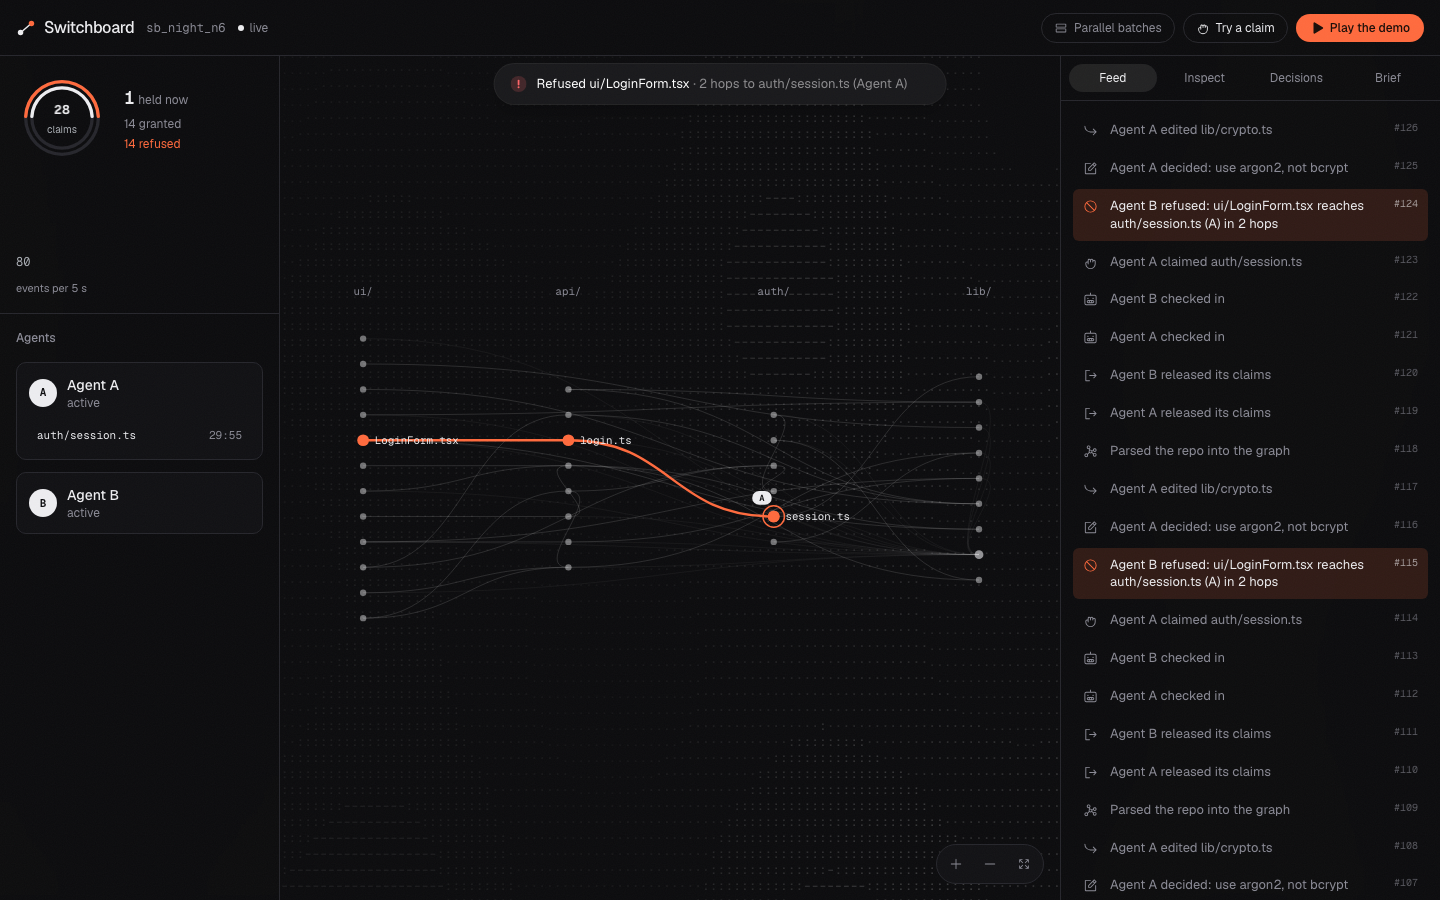
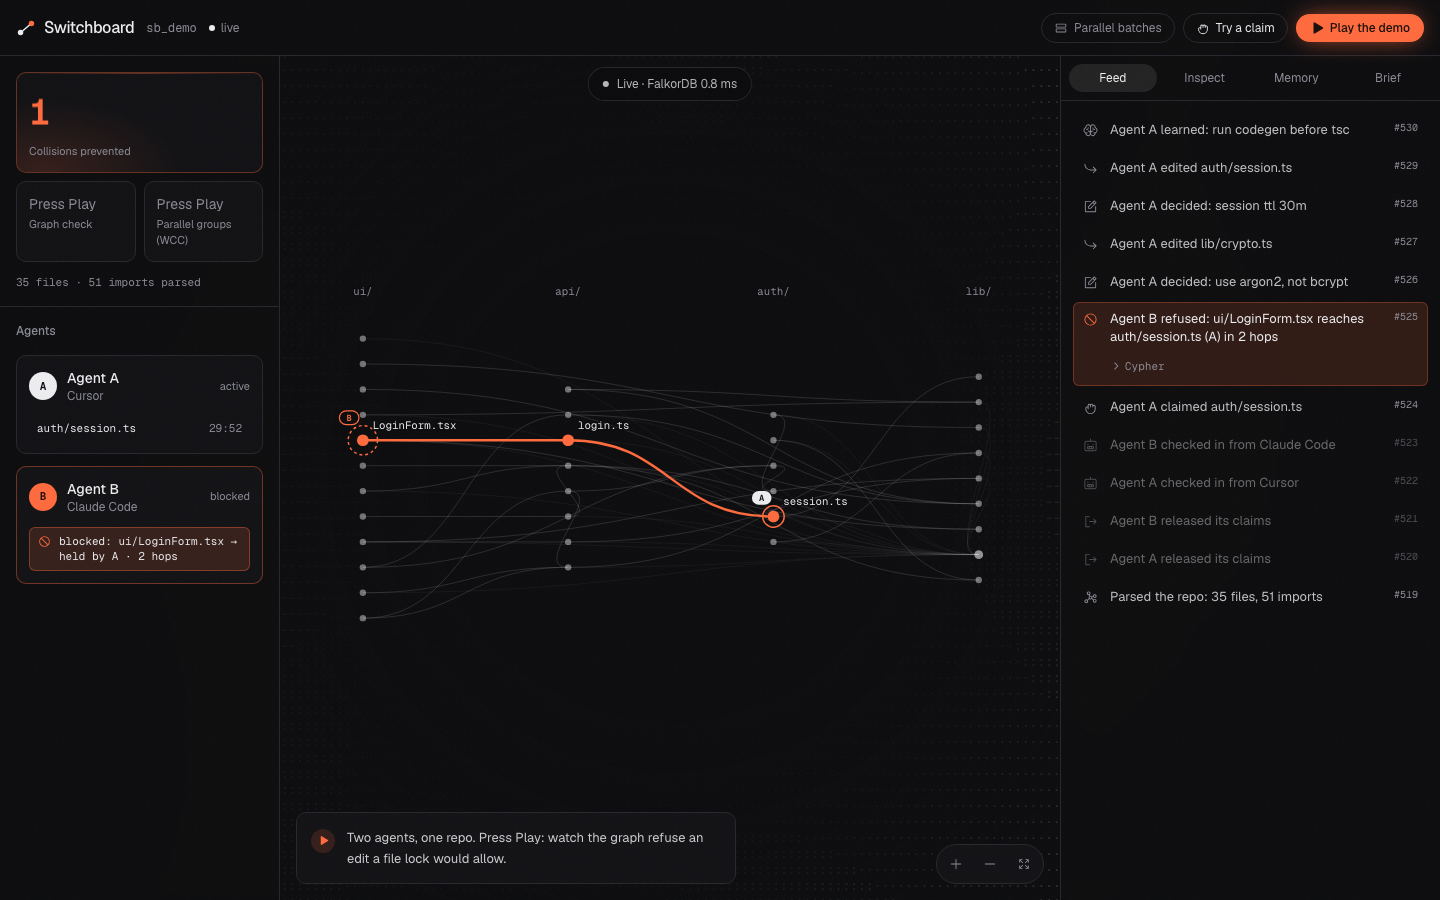
Regenerate after the night merges: bench on a quiet machine (median 0.69 ms), replay, pair census, README, OG and app captures, hero GIF

diff --git a/README.md b/README.md
@@ -181,19 +181,19 @@ UNWIND $paths AS want
 MATCH (f:File {path: want})<-[c:CLAIMS]-(o:Agent)
 WHERE o.id <> $agent AND c.until > $now
 RETURN want AS file, 'SAME' AS type, f.path AS claimed, [f.path] AS path, 0 AS hops,
-       o.id AS agent, c.taskId AS taskId, c.intent AS intent
+       o.id AS agent, c.taskId AS taskId, c.intent AS intent, c.until AS until, coalesce(f.hub, false) AS hub
 UNION ALL
 UNWIND $paths AS want
 MATCH p = (f:File {path: want})-[:IMPORTS*1..3]->(g:File), (g)<-[c:CLAIMS]-(o:Agent)
-WHERE o.id <> $agent AND c.until > $now AND none(n IN nodes(p) WHERE coalesce(n.hub, false))
+WHERE o.id <> $agent AND c.until > $now AND none(n IN nodes(p)[1..-1] WHERE coalesce(n.hub, false))
 RETURN want AS file, 'UPSTREAM' AS type, g.path AS claimed, [n IN nodes(p) | n.path] AS path, length(p) AS hops,
-       o.id AS agent, c.taskId AS taskId, c.intent AS intent
+       o.id AS agent, c.taskId AS taskId, c.intent AS intent, c.until AS until, coalesce(f.hub, false) OR coalesce(g.hub, false) AS hub
 UNION ALL
 UNWIND $paths AS want
 MATCH p = (g:File)-[:IMPORTS*1..3]->(f:File {path: want}), (g)<-[c:CLAIMS]-(o:Agent)
-WHERE o.id <> $agent AND c.until > $now AND none(n IN nodes(p) WHERE coalesce(n.hub, false))
+WHERE o.id <> $agent AND c.until > $now AND none(n IN nodes(p)[1..-1] WHERE coalesce(n.hub, false))
 RETURN want AS file, 'DOWNSTREAM' AS type, g.path AS claimed, [n IN nodes(p) | n.path] AS path, length(p) AS hops,
-       o.id AS agent, c.taskId AS taskId, c.intent AS intent
+       o.id AS agent, c.taskId AS taskId, c.intent AS intent, c.until AS until, coalesce(f.hub, false) OR coalesce(g.hub, false) AS hub
 ```
 
 ### Conflict guard
@@ -208,10 +208,10 @@ OPTIONAL MATCH (f:File {path: want})<-[c:CLAIMS]-(o:Agent)
 WHERE o.id <> $agent AND c.until > $now
 WITH want, count(c) AS same
 OPTIONAL MATCH p = (f:File {path: want})-[:IMPORTS*1..3]->(g:File), (g)<-[c:CLAIMS]-(o:Agent)
-WHERE o.id <> $agent AND c.until > $now AND none(n IN nodes(p) WHERE coalesce(n.hub, false))
+WHERE o.id <> $agent AND c.until > $now AND none(n IN nodes(p)[1..-1] WHERE coalesce(n.hub, false))
 WITH want, same, count(c) AS up
 OPTIONAL MATCH p = (g:File)-[:IMPORTS*1..3]->(f:File {path: want}), (g)<-[c:CLAIMS]-(o:Agent)
-WHERE o.id <> $agent AND c.until > $now AND none(n IN nodes(p) WHERE coalesce(n.hub, false))
+WHERE o.id <> $agent AND c.until > $now AND none(n IN nodes(p)[1..-1] WHERE coalesce(n.hub, false))
 WITH want, same, up, count(c) AS down
 WITH sum(same + up + down) AS blocked
 WITH blocked WHERE blocked = 0
@@ -229,10 +229,10 @@ OPTIONAL MATCH (f:File {path: want})<-[c:CLAIMS]-(o:Agent)
 WHERE o.id <> $agent AND c.until > $now
 WITH want, count(c) AS same
 OPTIONAL MATCH p = (f:File {path: want})-[:IMPORTS*1..3]->(g:File), (g)<-[c:CLAIMS]-(o:Agent)
-WHERE o.id <> $agent AND c.until > $now AND none(n IN nodes(p) WHERE coalesce(n.hub, false))
+WHERE o.id <> $agent AND c.until > $now AND none(n IN nodes(p)[1..-1] WHERE coalesce(n.hub, false))
 WITH want, same, count(c) AS up
 OPTIONAL MATCH p = (g:File)-[:IMPORTS*1..3]->(f:File {path: want}), (g)<-[c:CLAIMS]-(o:Agent)
-WHERE o.id <> $agent AND c.until > $now AND none(n IN nodes(p) WHERE coalesce(n.hub, false))
+WHERE o.id <> $agent AND c.until > $now AND none(n IN nodes(p)[1..-1] WHERE coalesce(n.hub, false))
 WITH want, same, up, count(c) AS down
 WITH sum(same + up + down) AS blocked
 WITH blocked WHERE blocked = 0
@@ -273,7 +273,7 @@ Why a lock table cannot do this: it has no idea who depends on a file.
 
 ```cypher
 MATCH p = (d:File)-[:IMPORTS*1..3]->(f:File {path: $path})
-WHERE d <> f AND none(n IN nodes(p) WHERE coalesce(n.hub, false) AND n <> f)
+WHERE d <> f AND none(n IN nodes(p)[1..-1] WHERE coalesce(n.hub, false))
 WITH d, min(length(p)) AS hops, $now AS now
 RETURN d.path AS path, hops, [(a:Agent)-[c:CLAIMS]->(d) WHERE c.until > now | a.id] AS agents
 ORDER BY hops, path
@@ -293,9 +293,9 @@ UNWIND a.paths AS p1
 UNWIND b.paths AS p2
 MATCH (f1:File {path: p1}), (f2:File {path: p2})
 OPTIONAL MATCH up = (f1)-[:IMPORTS*1..3]->(f2)
-WHERE none(n IN nodes(up) WHERE coalesce(n.hub, false))
+WHERE none(n IN nodes(up)[1..-1] WHERE coalesce(n.hub, false))
 OPTIONAL MATCH down = (f2)-[:IMPORTS*1..3]->(f1)
-WHERE none(n IN nodes(down) WHERE coalesce(n.hub, false))
+WHERE none(n IN nodes(down)[1..-1] WHERE coalesce(n.hub, false))
 WITH a, b, f1, f2, min(length(up)) AS u, min(length(down)) AS d
 WITH a, b, f1.path AS via,
      CASE WHEN f1 = f2 THEN 0 WHEN u IS NULL THEN d WHEN d IS NULL THEN u WHEN u < d THEN u ELSE d END AS hops
@@ -350,10 +350,23 @@ OPTIONAL MATCH (e)-[:UNDER]->(t:Task)
 OPTIONAL MATCH (t)-[:CAUSED_BY]->(d:Decision)
 OPTIONAL MATCH (da:Agent)-[:MADE]->(d)
 OPTIONAL MATCH (d)<-[:SUPERSEDES*1..5]-(newer:Decision {status: 'active'})
-RETURN e.seq AS seq, a.id AS agent, t.id AS task,
+WITH f, a, t, d, da, collect(DISTINCT newer)[0] AS newer, max(e.seq) AS seq, count(DISTINCT e) AS edits
+RETURN seq, edits, a.id AS agent, t.id AS task,
        d.id AS decisionId, d.text AS decision, d.why AS why, da.id AS decidedBy,
-       newer.id AS latestId, newer.text AS latestText
+       newer.id AS latestId, newer.text AS latestText,
+       [x IN [f, a, t, d] WHERE x IS NOT NULL | {label: labels(x)[0], id: coalesce(x.path, x.id)}] AS nodes
 ORDER BY seq DESC, decisionId
+LIMIT $limit
+UNION ALL
+MATCH (d:Decision {status: 'active'})-[:AFFECTS]->(f:File {path: $path})
+OPTIONAL MATCH (da:Agent)-[:MADE]->(d)
+OPTIONAL MATCH (t:Task)-[:CAUSED_BY]->(d)
+WITH f, d, da, collect(t)[0] AS t
+RETURN 0 AS seq, 0 AS edits, null AS agent, t.id AS task,
+       d.id AS decisionId, d.text AS decision, d.why AS why, da.id AS decidedBy,
+       null AS latestId, null AS latestText,
+       [x IN [f, t, d] WHERE x IS NOT NULL | {label: labels(x)[0], id: coalesce(x.path, x.id)}] AS nodes
+ORDER BY d.at DESC, decisionId
 LIMIT $limit
 ```
 
@@ -367,7 +380,7 @@ Why a lock table cannot do this: it can list who holds what, not what the neighb
 UNWIND $paths AS path
 MATCH (f:File {path: path})
 MATCH p = (f)-[:IMPORTS*0..2]-(g:File)
-WHERE length(p) = 0 OR none(n IN nodes(p) WHERE coalesce(n.hub, false))
+WHERE none(n IN nodes(p)[1..-1] WHERE coalesce(n.hub, false))
 RETURN g.path AS path, min(length(p)) AS hops
 ```
 
@@ -431,7 +444,7 @@ Agent A holds `auth/session.ts` and changes what `sessionLabel` returns. Agent B
 
 - Agent A holds `auth/session.ts`. Agent B edits `ui/LoginForm.tsx`. The refusal: UPSTREAM, 2 hops, ui/LoginForm.tsx → api/login.ts → auth/session.ts.
 - The untouched repo, A's edit alone and B's edit alone all pass `tsc`. Merged, `tsc` fails: `ui/LoginForm.tsx(9,67): error TS2339: Property 'toUpperCase' does not exist on type '{ user: string; at: string; }'.`
-- The conflict check (`findConflicts`, one FalkorDB query from Node) took a median of 1.01 ms (range 0.71 to 3.72 ms) over 10 runs. The machine was busy: 1-minute load average 29.98 on 10 cores.
+- The conflict check (`findConflicts`, one FalkorDB query from Node) took a median of 0.69 ms (range 0.56 to 1.35 ms) over 10 runs. The machine was busy: 1-minute load average 4.84 on 10 cores.
 - Last run: 2026-10-17, TypeScript 5.9.3, Node v26.9.0.
 
 Pair census, one query over the parsed import graph (`npm run pairs`). A pair is two different files, counted once. A file lock collides only on the same path, so by definition it catches none of them:
@@ -439,7 +452,7 @@ Pair census, one query over the parsed import graph (`npm run pairs`). A pair is
 | Repo | Files | Pairs | Caught by a file lock | 1 hop | Within 3 hops | 2 to 3 hops (missed by a one-hop check) |
 |---|---|---|---|---|---|---|
 | `demo-repo/` | 35 | 595 | 0 | 51 | 78 | 27 |
-| `apps/web/` | 103 | 5253 | 0 | 185 | 321 | 136 |
+| `apps/web/` | 101 | 5050 | 0 | 184 | 293 | 109 |
 
 <!-- bench:end -->
 

diff --git a/bench/REPORT.md b/bench/REPORT.md
@@ -1,6 +1,6 @@
 # Benchmark
 
-scripted agents, two edits that each typecheck alone, real tsc, real FalkorDB claims. Reproduce with `npm run bench` (FalkorDB on localhost:6379; `BENCH_N` sets the run count; the graph is `sb_bench_n7`, dropped afterwards).
+scripted agents, two edits that each typecheck alone, real tsc, real FalkorDB claims. Reproduce with `npm run bench` (FalkorDB on localhost:6379; `BENCH_N` sets the run count; the graph is `sb_bench`, dropped afterwards).
 
 ## The scenario
 
@@ -32,11 +32,11 @@ Neither agent touches the other's file and neither edit is wrong on its own. The
 
 ## Check latency
 
-`findConflicts`, the read-only path query inside every claim: median **1.01 ms**, range 0.71–3.72 ms over 10 runs. The whole refused `claim()` call (check, a conflict event written to the graph) has a median of 4.24 ms.
+`findConflicts`, the read-only path query inside every claim: median **0.69 ms**, range 0.56–1.35 ms over 10 runs. The whole refused `claim()` call (check, a conflict event written to the graph) has a median of 3.64 ms.
 
 ## What this does and does not show
 
 - The run is deterministic. Every trial repeats the same steps on the same files, so 10 runs show repeatability (the same result every time, a latency range), not a statistic.
 - The agents are scripted, not live LLM sessions. B "waits" and A "releases" by direct calls in sequence, not real concurrency.
-- The latency is the one measured, noisy number (this run: 1-minute load average 29.98 on 10 cores). The build counts are the same every run by construction; what they prove is that the two edits really do collide under the real compiler and that the claim graph really does refuse the second one.
+- The latency is the one measured, noisy number (this run: 1-minute load average 4.84 on 10 cores). The build counts are the same every run by construction; what they prove is that the two edits really do collide under the real compiler and that the claim graph really does refuse the second one.
 - Without Switchboard the collision would eventually show up in CI or on the next build. What it costs is a red main branch and a debugging session, not lost data. The benchmark does not model that cost, or the rework B does after its tsc fails.
